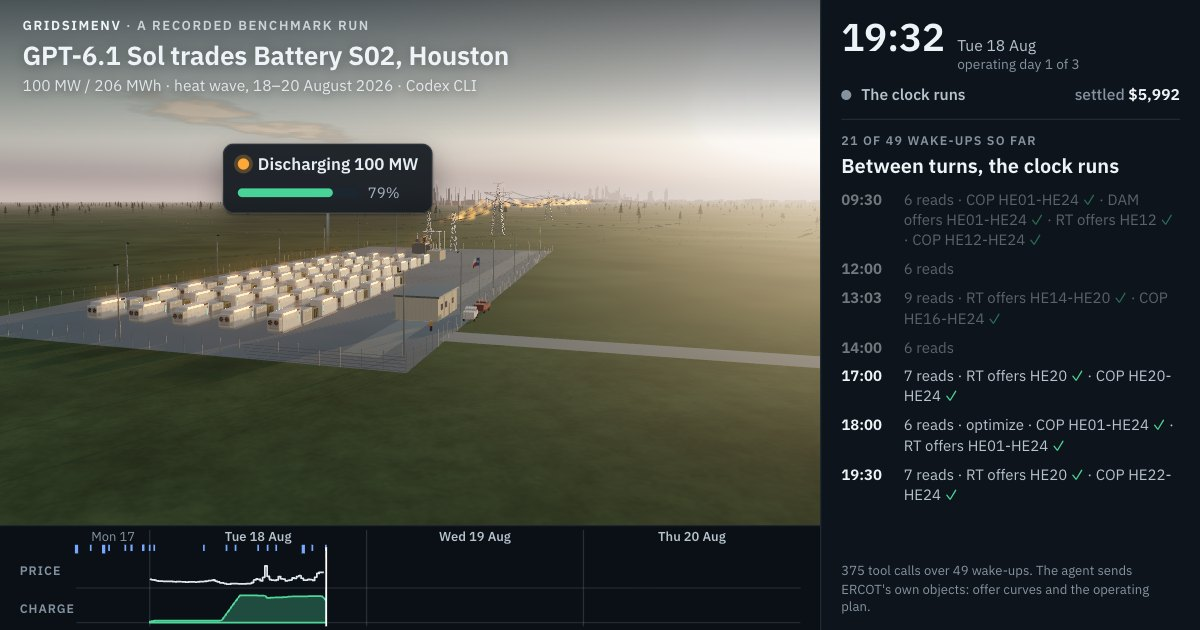
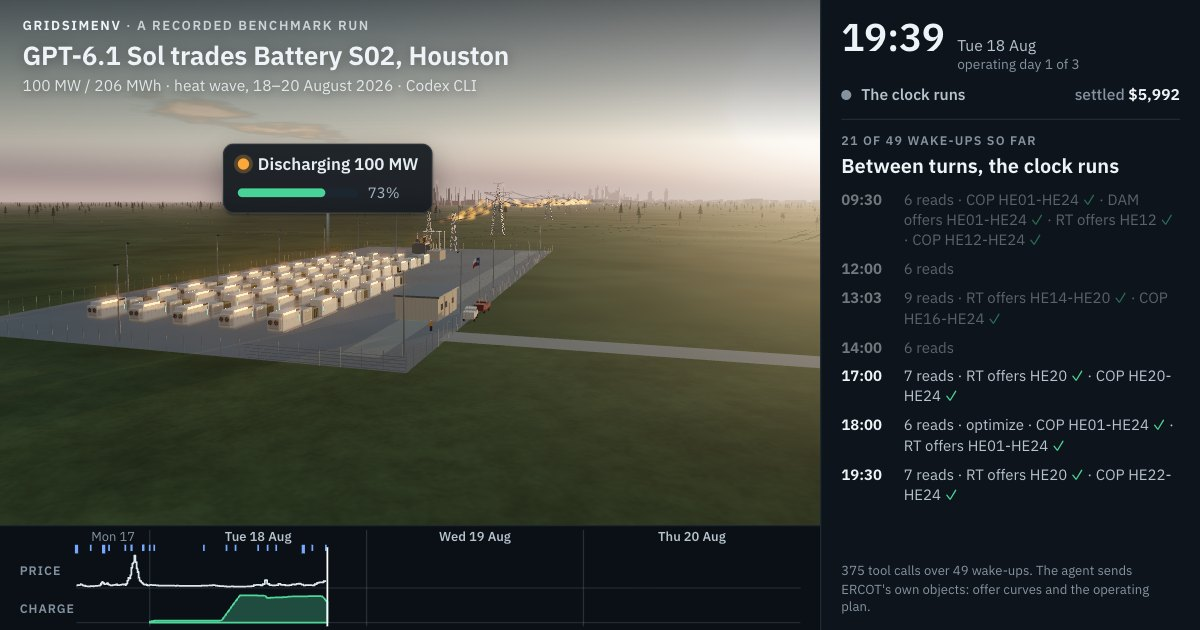
feat(article): play the run film as an MP4, with the GIF inside it as the fallback
The article's film is a muted, looping, inline video that autoplays. The
re-paced GIF sits inside it as a lazy fallback, so it is never fetched where
video plays. hub_article.py checks that both films are in place, under their
size caps, and that the MP4's index comes before its media; the rendered
check covers both. The social card and poster is the film's frame at Tuesday
dusk, with the band now showing the day before's price.

diff --git a/hub/article/app/src/styles/_gridsim.css b/hub/article/app/src/styles/_gridsim.css
@@ -117,9 +117,10 @@
   }
 }
 
-/* The run film: a wide figure, the GIF at its full width with the 3D link on it. */
+/* The run film: a wide figure, the video at its full width with the 3D link on it; the GIF inside it is the fallback
+   where video cannot play. */
 .gs-run .html-embed__card { padding: 0; overflow: hidden; border-radius: 10px; background: #0b1117; }
-.gs-run img { display: block; width: 100%; height: auto; }
+.gs-run :is(video, img) { display: block; width: 100%; height: auto; aspect-ratio: 16 / 9; background: #0b1117; }
 .gs-run a:focus-visible { outline: 2px solid var(--primary-color); outline-offset: 3px; }
 
 section.content-grid pre.astro-code { white-space: pre-wrap; overflow-wrap: anywhere; }

diff --git a/scripts/hub_article.py b/scripts/hub_article.py
@@ -1,16 +1,18 @@
 """The GridSimEnv article: a research-article Space built with tfrere's research-article-template (Astro, MDX chapters,
 D3 embeds) under hub/article. It opens on what is in the environment: a recorded benchmark run filmed on the 3D viewer
-(scripts/hub_desk_film.py), then the real operator against the agents on the windows where they most clearly beat it,
+(scripts/hub_desk_film.py, an MP4 with a GIF inside it as the fallback), then the real operator against the agents on
+the windows where they most clearly beat it,
 read from results/desk-v4-bench, its episodes and the desk-v4-bench pack. The prose states no number of its own: it
 reads them from facts.json, which this script formats from summary.json, the grades and the episodes, and the front
 matter's description is the dataset card's pitch.
 
-    .venv/bin/python scripts/hub_desk_film.py --out hub/article/app/public/media/gridsim-run.gif   # the film, once
+    .venv/bin/python scripts/hub_desk_film.py --out hub/article/app/public/media/gridsim-run.mp4   # the film, once
+    .venv/bin/python scripts/hub_desk_film.py --out hub/article/app/public/media/gridsim-run.gif   # and its fallback
     .venv/bin/python scripts/hub_article.py             # the data, the numbers check, the scans
     .venv/bin/python scripts/hub_article.py --build     # then npm ci (once) and npm run build
     .venv/bin/python scripts/hub_article.py --publish   # then upload hub/article to the Space
 
-The film is uploaded with the Space, not committed (hub/article/app/public/media is ignored).
+The films are uploaded with the Space, not committed (hub/article/app/public/media is ignored).
 """
 
 import argparse
@@ -32,8 +34,7 @@ APP = ARTICLE / "app"
 DATA = APP / "src" / "content" / "assets" / "data"
 CHAPTERS = APP / "src" / "content" / "chapters"
 MEDIA = APP / "public" / "media"
-FILM = MEDIA / "gridsim-run.gif"
-FILM_MB = 12
+FILMS = {MEDIA / "gridsim-run.mp4": 10, MEDIA / "gridsim-run.gif": 10}
 SPACE = "earakely-scale/GridSimEnv"
 MDX = APP / "src" / "content" / "article.mdx"
 STALE = ("results.json", "anatomy.json", "advantage.json", "timeline.json", "desk.json", "bench.json", "banner.json",
@@ -133,9 +134,9 @@ def lead(s: dict, grades: list[dict], card) -> dict:
             "battery": g["battery"], "span": span(g["dates"][0], g["dates"][-1]), "kind": front["kind"],
             "P": usd(g["p"]), "C": f"{card.pc(g['capture'])}%", "op": usd(g["p_operator_actual"]),
             "op_replay": usd(g["p_operator_replay"]), "replay": card.bench_replay(h["model"], h["task_id"]),
-            "film_alt": (f"{who}: the battery site in 3D, the agent's tool calls one by one in the desk beside it, the "
-                         "node's price and the battery's charge below as they post, then the settled grade beside the "
-                         "real operator's"),
+            "film_alt": (f"A recorded benchmark run: {who}. The battery site in 3D, the agent's tool calls one by "
+                         "one in the desk beside it, the node's price and the battery's charge below as they post, "
+                         "then the settled grade beside the real operator's"),
             "og_alt": (f"{who}: the battery site in 3D at dusk, discharging, beside the desk's clock and the agent's "
                        "wake-ups, the node's price and the battery's charge below")}
 
@@ -333,12 +334,17 @@ def describe(pitch: str, lead_: dict) -> None:
 
 
 def check_film() -> None:
-    """The film ships with the Space, not the repository: it must be in place before a build or a publish."""
-    if not FILM.is_file():
-        raise SystemExit(f"{FILM.relative_to(ROOT)} is missing: film it with scripts/hub_desk_film.py --out {FILM}")
-    if FILM.stat().st_size > FILM_MB * 1e6 or FILM.read_bytes()[:6] != b"GIF89a":
-        raise SystemExit(f"{FILM.name} is not a GIF of at most {FILM_MB} MB")
-    print(f"film: {FILM.name}, {FILM.stat().st_size / 1e6:.1f} MB")
+    """The films ship with the Space, not the repository: they must be in place before a build or a publish, the MP4
+    with its index ahead of its media so it plays as it loads."""
+    for path, mb in FILMS.items():
+        if not path.is_file():
+            raise SystemExit(f"{path.relative_to(ROOT)} is missing: film it with scripts/hub_desk_film.py --out {path}")
+        head = path.read_bytes()[:1 << 20]
+        kind = head[:6] == b"GIF89a" if path.suffix == ".gif" else (
+            head[4:8] == b"ftyp" and -1 < head.find(b"moov") < (head.find(b"mdat") % len(head)))
+        if not kind or path.stat().st_size > mb * 1e6:
+            raise SystemExit(f"{path.name} is not a {path.suffix[1:]} of at most {mb} MB that plays as it loads")
+        print(f"film: {path.name}, {path.stat().st_size / 1e6:.1f} MB")
 
 
 def check_rendered(f: dict) -> None:
@@ -350,11 +356,10 @@ def check_rendered(f: dict) -> None:
     missing = [f"{e} = {known[e]!r}" for e in sorted(used)
                if not (f'href="{known[e]}"' in links if known[e].startswith("https://")
                        else known[e] in text or f'"{known[e]}"' in links)]
-    if not (APP / "dist" / "media" / FILM.name).is_file():
-        missing.append(f"media/{FILM.name}")
+    missing += [f"media/{p.name}" for p in FILMS if not (APP / "dist" / "media" / p.name).is_file()]
     if missing:
         raise SystemExit("rendered check failed, not on the page:\n  " + "\n  ".join(missing))
-    print(f"rendered check: all {len(used)} facts on the page as formatted, and the film")
+    print(f"rendered check: all {len(used)} facts on the page as formatted, and the films")
 
 
 def files_to_publish() -> dict[str, Path]:
@@ -367,11 +372,11 @@ def files_to_publish() -> dict[str, Path]:
     return out
 
 
-IMAGES = (".jpg", ".png", ".webp", ".gif")
+IMAGES = (".jpg", ".png", ".webp", ".gif", ".mp4")
 
 
 def texts(files: dict[str, Path]) -> dict[str, bytes]:
-    """Every published file the scans read: all of them but the images, which must be images."""
+    """Every published file the scans read: all of them but the images and films, which must be images or films."""
     out = {}
     for k, p in files.items():
         b = p.read_bytes()
@@ -379,7 +384,7 @@ def texts(files: dict[str, Path]) -> dict[str, bytes]:
             b.decode()
         except UnicodeDecodeError:
             if p.suffix not in IMAGES:
-                raise SystemExit(f"{k} is neither text nor an image; nothing was published") from None
+                raise SystemExit(f"{k} is neither text nor an image or film; nothing was published") from None
             continue
         out[k] = b
     return out

diff --git a/hub/article/README.md b/hub/article/README.md
@@ -62,7 +62,7 @@ publishes this Space.
 | `app/src/content/chapters/` | One `.mdx` per section; every number in the prose is read from `facts.json` |
 | `app/src/content/embeds/` | The D3 figures, one file each |
 | `app/src/content/assets/data/` | The figures' data: `facts.json` (the prose's numbers) and `duel.json` (the real operator against the agents), from `results/desk-v4-bench`, its episodes and the benchmark's pack |
-| `app/public/media/gridsim-run.gif` | The run film, filmed on the viewer by `scripts/hub_desk_film.py`; uploaded with the Space, not committed |
+| `app/public/media/gridsim-run.mp4`, `gridsim-run.gif` | The run film, filmed on the viewer by `scripts/hub_desk_film.py`: the MP4 plays in the article, the GIF is its fallback; uploaded with the Space, not committed |
 | `app/src/content/bibliography.bib` | References, cited as `[@key]` |
 | `app/public/` | The social card and `scripts/gridsim-kit.js`, the figures' shared helpers |
 
